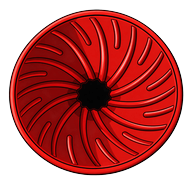
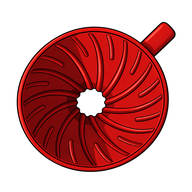
Add files via upload

diff --git a/index.html b/index.html
@@ -84,7 +84,7 @@
         <h1>☕ Mr Coffee</h1>
         <div class="sub">V60 scale-side helper</div>
       </div>
-      <div style="text-align:right"><div class="pill" id="ratioBadge">16:1 · 3× bloom</div><div class="sub" style="margin-top:5px">Mr Coffee · v1.4.0</div></div>
+      <div style="text-align:right"><div class="pill" id="ratioBadge">16:1 · 3× bloom</div><div class="sub" style="margin-top:5px">Mr Coffee · v1.4.1</div></div>
     </div>
 
     <div class="tabs">

diff --git a/service-worker.js b/service-worker.js
@@ -1,4 +1,4 @@
-const CACHE='mr-coffee-v1.4.0';
+const CACHE='mr-coffee-v1.4.1';
 const CORE=['./','./index.html','./manifest.webmanifest','./icon-192.png','./icon-512.png'];
 self.addEventListener('install',e=>{self.skipWaiting();e.waitUntil(caches.open(CACHE).then(c=>c.addAll(CORE)))});
 self.addEventListener('activate',e=>e.waitUntil(caches.keys().then(keys=>Promise.all(keys.filter(k=>k!==CACHE).map(k=>caches.delete(k)))).then(()=>self.clients.claim())));

diff --git a/README.md b/README.md
@@ -41,3 +41,6 @@ v1.3.9 removes the handle from the icon art and centers a larger main dripper ci
 
 
 v1.4.0 updates the app icon to use the new centered red dripper artwork.
+
+
+v1.4.1 updates the app icon to use the user-provided white-backed V60 composition.
